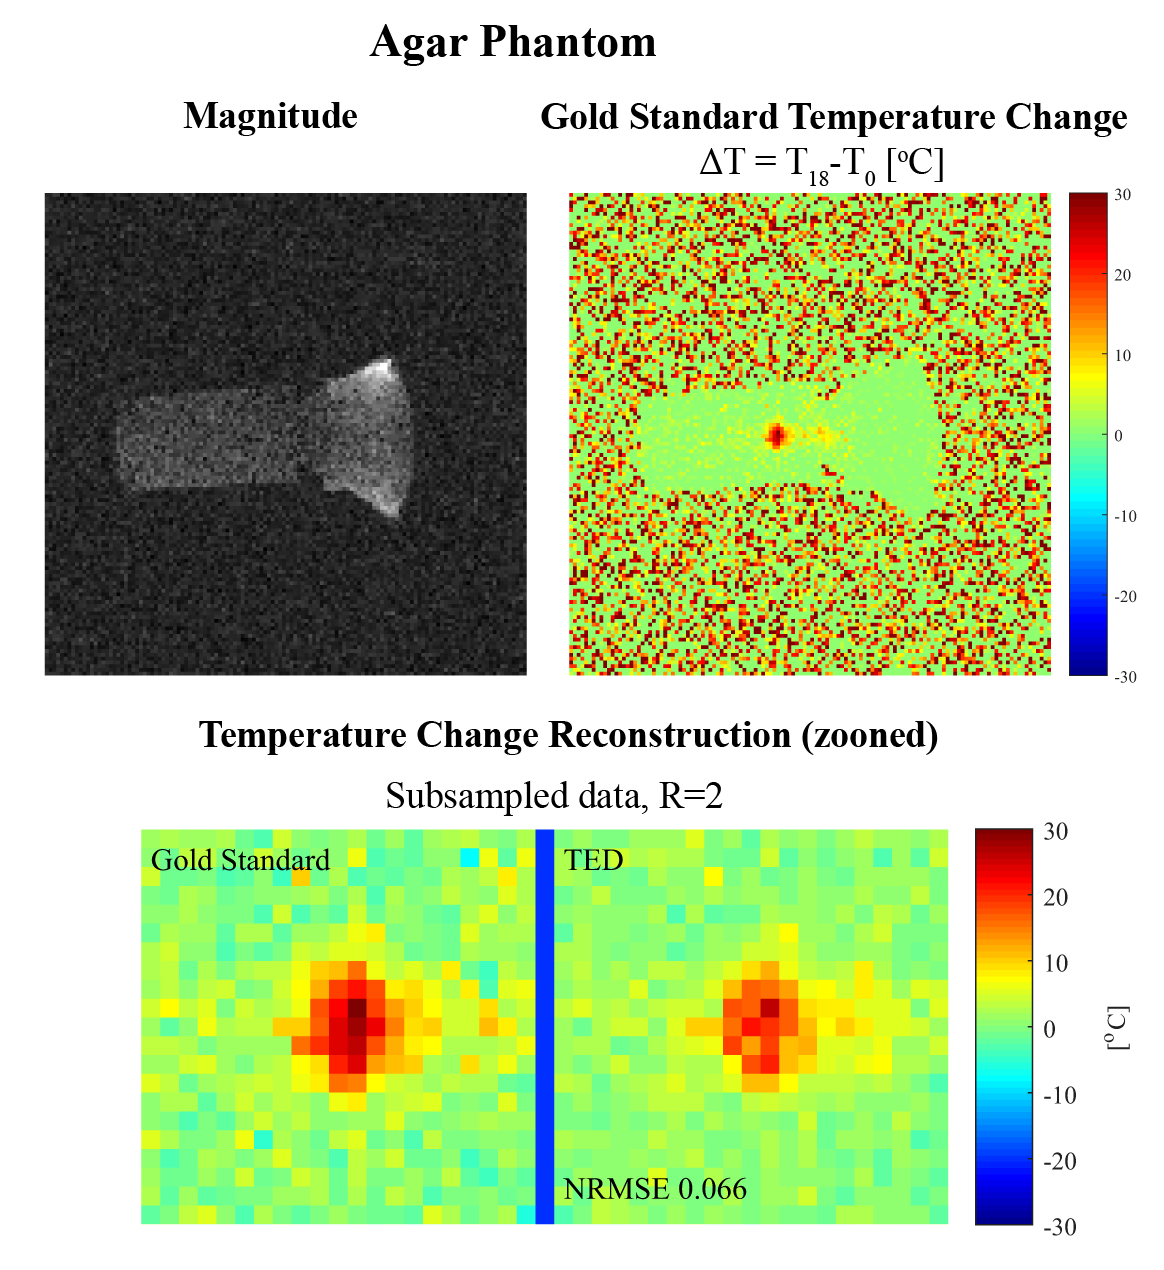
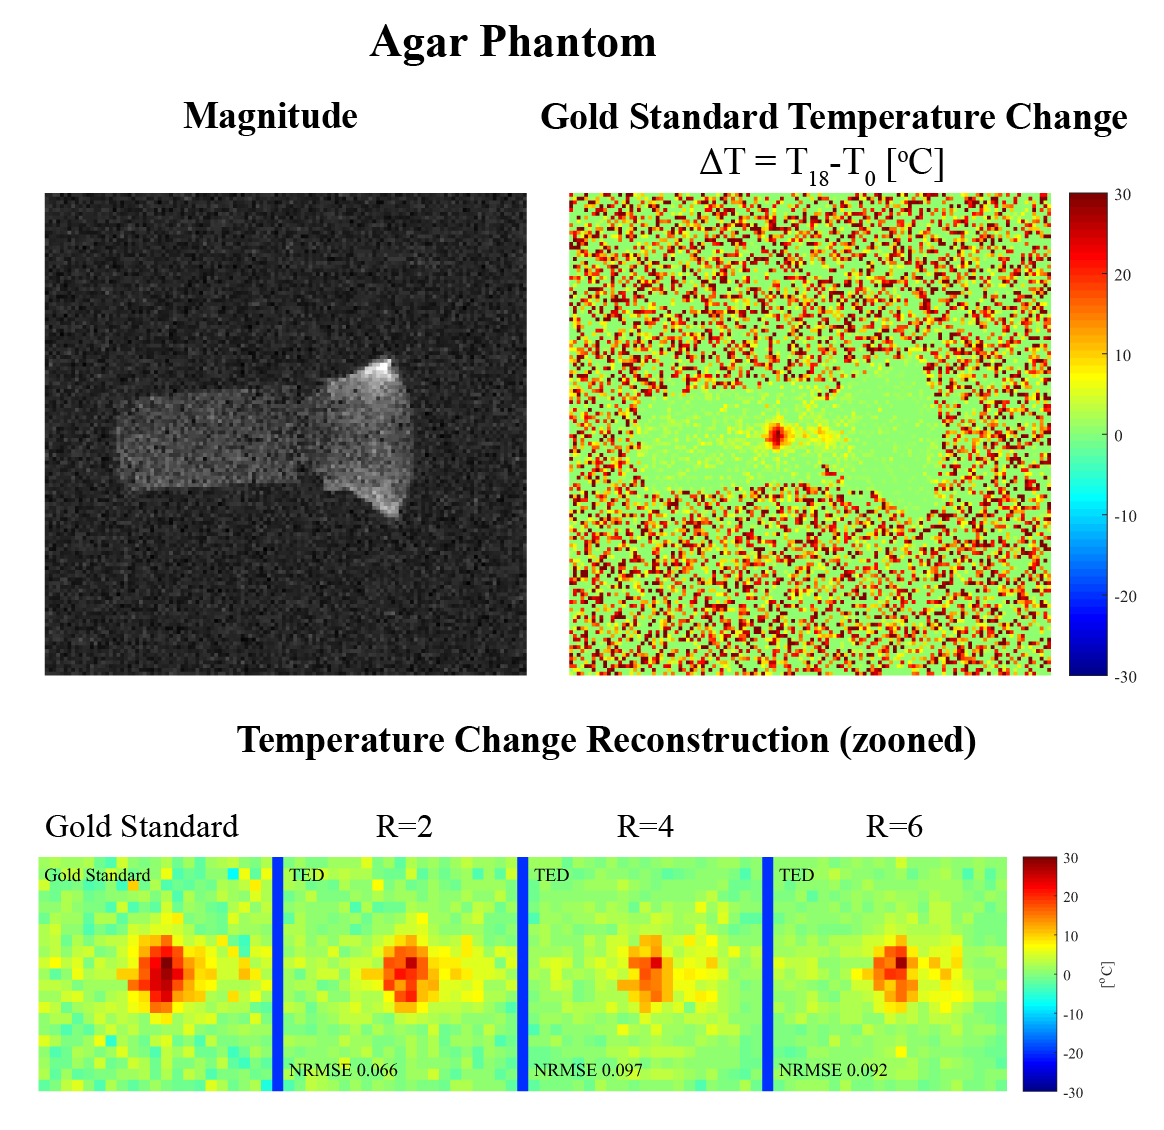
Agar phantom figure was updated

diff --git a/main.m b/main.m
@@ -5,14 +5,14 @@ close all
 %        SET YOUR DESIRED DEMO & REDUCTION FACTOR HERE
 % ===========================================================
 demo = 'Agar_phantom_demo' % scanner vendor: Philips.  Grissom's data
-% demo = 'Gel_phantom_demo'  % scanner vendor: GE.     Insightec's data - series 25
+demo = 'Gel_phantom_demo'  % scanner vendor: GE.     Insightec's data - series 25
 
 % Set the reduction factor (k-space subsampling rate)
 switch demo
     case 'Agar_phantom_demo' 
-        R_vec =  2; %[2  4  6 ];  
+        R_vec =  [2  4  6 ];  
     case 'Gel_phantom_demo'  
-        R_vec =  2; % 2:2:10;      
+        R_vec =  2:2:10;      
 end
 
 
